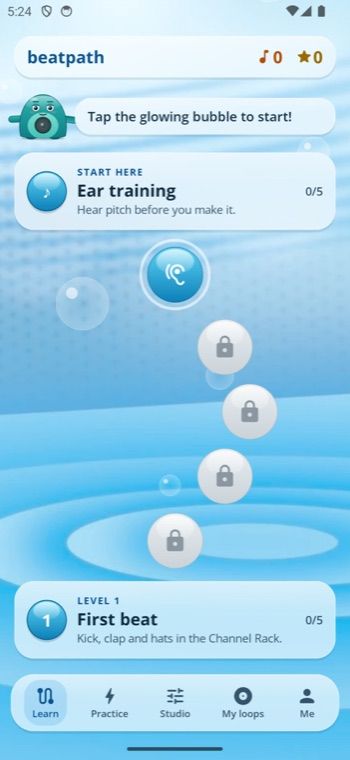
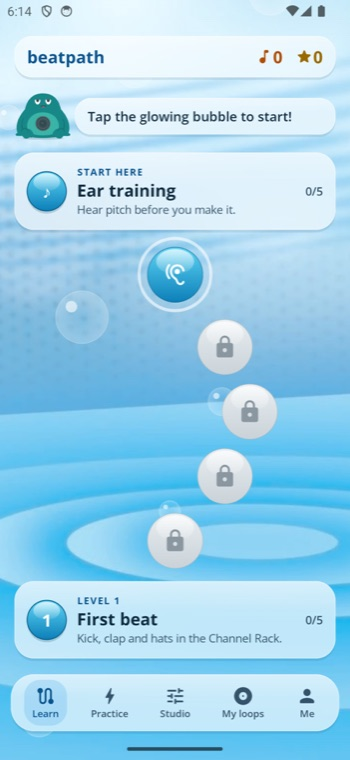
Lou 1.0.1: draw Lou from his exact SVG artwork and animate it
The app's Lou is now built from the 20 paths of docs/lou.svg (the same
artwork as the GitHub banner) instead of a code-drawn approximation.

- LouArt.kt holds the SVG paths, positions and colours verbatim
- Lou.kt animates the parts: breathing, cheer jump, beat bounce, tilt,
  blinking lids that open or sink with mood, pupils that look around,
  the smile widening or opening to talk, and the speaker pumping
- hands and feet sway gently: each is cut from the body outline on its
  own layer and redrawn slightly rotated, with an overlap so no gaps open
- Lou gallery fits all nine moods on a phone
- refreshed README screenshots, demo GIF and a moods preview

diff --git a/android/app/src/main/java/com/beatpath/app/ui/lou/Lou.kt b/android/app/src/main/java/com/beatpath/app/ui/lou/Lou.kt
@@ -22,6 +22,8 @@ import androidx.compose.ui.graphics.drawscope.DrawScope
 import androidx.compose.ui.graphics.drawscope.Stroke
 import androidx.compose.ui.graphics.drawscope.clipPath
 import androidx.compose.ui.graphics.drawscope.rotate
+import androidx.compose.ui.graphics.drawscope.translate
+import androidx.compose.ui.graphics.drawscope.scale
 import androidx.compose.ui.graphics.drawscope.withTransform
 import androidx.compose.ui.semantics.contentDescription
 import androidx.compose.ui.semantics.semantics
@@ -71,9 +73,9 @@ private class Pose {
 }
 
 /**
- * Lou, the guide: a big teal sub-bass creature with a woofer belly, drawn from layered parts so each
- * part moves on its own: breathing, eased blinks every 2–6 s, soft look-around, word-synced mouth,
- * a cheer jump with anticipation and landing squash, and a beat-locked bounce + woofer pump.
+ * Lou, the guide, drawn from his exact SVG artwork (docs/lou.svg, the GitHub banner's Lou). His parts move
+ * on their own: breathing, eased blinks every 2 to 6 s, look-arounds, mood lids and mouth, a talking
+ * mouth, a cheer jump with anticipation and landing squash, and a beat-locked bounce and speaker pump.
  */
 @Composable
 fun Lou(
@@ -138,23 +140,39 @@ fun Lou(
     }
 }
 
-private val BodyTop = Color(0xFF2BB3B0)
-private val BodyBottom = Color(0xFF0F7E86)
-private val BodyRim = Color(0xFF0A5F66)
-private val Belly = Color(0xFF7FE0D2)
-private val BellyDeep = Color(0xFF45C2B6)
-private val Ink = Color(0xFF0E2A2E)
+/** A hand or foot of the SVG body: the round region cut out of the body, the slightly bigger patch drawn back, and its joint. */
+private class Limb(val hand: Boolean, val side: Float, cx: Float, cy: Float, r: Float, px: Float, py: Float, margin: Float = 3.5f) {
+    val cut = Path().apply { addOval(Rect(Offset(cx, cy), r)) }
+    val patch = Path().apply { addOval(Rect(Offset(cx, cy), r + margin)) }
+    val pivot = Offset(px, py)
+}
+
+// positions measured on docs/lou.svg (SVG units): hands are the round lumps, feet the flat stubs at the sides
+private val Limbs = listOf(
+    Limb(hand = false, side = -1f, cx = 12f, cy = 128.5f, r = 8f, px = 23f, py = 127.5f, margin = 2.5f),
+    Limb(hand = false, side = 1f, cx = 158f, cy = 127.5f, r = 8f, px = 148f, py = 126.5f, margin = 2.5f),
+    Limb(hand = true, side = -1f, cx = 37f, cy = 126f, r = 16f, px = 37f, py = 111f),
+    Limb(hand = true, side = 1f, cx = 131f, cy = 126f, r = 16f, px = 131f, py = 111f),
+)
 
 /** Smooth 0→1→0 bump with eased edges (for jumps): ease-in-out sine. */
 private fun bump(p: Float) = sin(p.coerceIn(0f, 1f) * PI.toFloat())
+private fun smooth(e0: Float, e1: Float, x: Float): Float { val k = ((x - e0) / (e1 - e0)).coerceIn(0f, 1f); return k * k * (3 - 2 * k) }
 
+/**
+ * Draws Lou from his exact SVG artwork (LouArt) and animates the parts: the whole body breathes, jumps,
+ * bounces and tilts; the heavy lids blink and move with mood; the pupils look around inside the eye
+ * whites; the smile widens, flattens or opens into a talking mouth; the speaker pumps on the beat and
+ * the arm lines sway. At rest with mood Idle he matches the SVG exactly.
+ */
 private fun DrawScope.drawLou(pose: Pose, mood: LouMood, t: Float, since: Float, blink: Float, beatPhase: Float?, still: Boolean) {
-    val w = size.width; val h = size.height
-    val unit = min(w / 1.15f, h)
-    val cx = w / 2f
-    val floor = h * 0.97f
+    val A = LouArt
+    // fit the 171 × 144 artwork into the canvas, centred, standing on the bottom edge
+    val s = min(size.width / A.WIDTH, size.height / A.HEIGHT)
+    val ox = (size.width - A.WIDTH * s) / 2f
+    val oy = size.height - A.HEIGHT * s
 
-    // ---------------- body motion (all continuous curves) ----------------
+    // ---------------- body motion (same curves as before, in SVG units) ----------------
     var squash = 0f; var lift = 0f; var pump = 0f
     var tilt = pose.tilt
     if (!still) {
@@ -163,7 +181,7 @@ private fun DrawScope.drawLou(pose: Pose, mood: LouMood, t: Float, since: Float,
             LouMood.Cheer -> {
                 val c = since % 1.1f
                 when {
-                    c < 0.2f -> squash += 0.11f * bump(c / 0.4f)                                    // anticipation (eased)
+                    c < 0.2f -> squash += 0.11f * bump(c / 0.4f)                                    // anticipation
                     c < 0.72f -> { val p = (c - 0.2f) / 0.52f; lift = bump(p) * 0.22f; squash -= 0.07f * bump(p) }
                     c < 0.95f -> squash += 0.09f * bump((c - 0.72f) / 0.23f)                      // soft landing
                 }
@@ -176,121 +194,115 @@ private fun DrawScope.drawLou(pose: Pose, mood: LouMood, t: Float, since: Float,
         }
         if (beatPhase != null) {
             val k = (1f - beatPhase).coerceIn(0f, 1f)
-            pump = k * k * (3 - 2 * k)       // smoothstep instead of a hard decay
+            pump = k * k * (3 - 2 * k)
             squash += pump * 0.06f
             if (mood == LouMood.Dance) tilt += 3f * sin(t * PI.toFloat())
         }
     }
-    val bodyW = unit * 1.05f * (1f + squash * 0.7f)
-    val bodyH = unit * 0.86f * (1f - squash)
-    val baseY = floor - lift * unit
-    val left = cx - bodyW / 2f
-    val top = baseY - bodyH
+    val base = Offset(A.WIDTH / 2f, 136f)              // where his feet meet the ground
+    val liftU = lift * 120f
 
-    val shadowK = 1f - lift * 2.2f
-    drawOval(Color(0x33000000), Offset(cx - bodyW * 0.42f * shadowK, floor - unit * 0.035f), Size(bodyW * 0.84f * shadowK, unit * 0.07f))
+    withTransform({ translate(ox, oy); scale(s, s, Offset.Zero) }) {
+        // ground shadow shrinks while he's in the air
+        val shK = 1f - lift * 2.2f
+        drawOval(Color(0x2E0B3A40), Offset(base.x - 62f * shK, 136.5f), Size(124f * shK, 7f))
 
-    withTransform({ rotate(tilt, Offset(cx, baseY)) }) {
-        drawOval(BodyRim, Offset(cx - bodyW * 0.34f, baseY - unit * 0.07f), Size(bodyW * 0.22f, unit * 0.09f))
-        drawOval(BodyRim, Offset(cx + bodyW * 0.12f, baseY - unit * 0.07f), Size(bodyW * 0.22f, unit * 0.09f))
-
-        // arms: eased raise + gentle sway (never snaps)
-        val armY = top + bodyH * 0.55f
-        for (side in listOf(-1f, 1f)) {
-            val ax = cx + side * bodyW * 0.38f
-            val wave = if (!still && (mood == LouMood.Happy || mood == LouMood.Dance || mood == LouMood.Cheer)) 9f * sin(t * 6f + side) * pose.arm else 0f
-            val ang = -side * (28f + pose.arm * 125f + wave)
-            rotate(ang, Offset(ax, armY)) {
-                val len = unit * 0.3f; val wid = unit * 0.13f
-                drawRoundRect(Brush.horizontalGradient(listOf(BodyTop, BodyBottom), ax - wid / 2f, ax + wid / 2f), Offset(ax - wid / 2f, armY), Size(wid, len), CornerRadius(wid / 2f))
-                drawRoundRect(BodyRim, Offset(ax - wid / 2f, armY), Size(wid, len), CornerRadius(wid / 2f), style = Stroke(unit * 0.01f))
+        withTransform({
+            translate(0f, -liftU)
+            scale(1f + squash * 0.7f, 1f - squash, base)
+            rotate(tilt, base)
+        }) {
+            // Hands and feet are part of the body outline in the SVG. To sway them, the body goes on its own layer,
+            // each hand or foot is cut out of it and drawn back rotated a few degrees around its wrist or ankle.
+            // The redrawn piece is slightly bigger than the cut, so no gap ever opens inside the body.
+            val excited = mood == LouMood.Happy || mood == LouMood.Dance || mood == LouMood.Cheer
+            fun handAngle(side: Float) = if (still) 0f else
+                2.2f * sin(t * 1.6f + side * 1.3f) + (if (excited) 5f * sin(t * 6f + side) * pose.arm else 0f)
+            fun footAngle(side: Float) = if (still) 0f else
+                -side * (2.5f * (0.5f + 0.5f * sin(t * 1.25f + side * 2f)) + pump * 7f)
+            drawContext.canvas.saveLayer(Rect(-30f, -40f, A.WIDTH + 30f, A.HEIGHT + 20f), androidx.compose.ui.graphics.Paint())
+            drawPath(A.body.path, A.body.color)
+            for (limb in Limbs) {
+                val ang = if (limb.hand) handAngle(limb.side) else footAngle(limb.side)
+                if (kotlin.math.abs(ang) < 0.01f) continue
+                clipPath(limb.cut) { drawPath(A.body.path, Color.Black, blendMode = androidx.compose.ui.graphics.BlendMode.Clear) }
+                rotate(ang, limb.pivot) { clipPath(limb.patch) { drawPath(A.body.path, A.body.color) } }
             }
-        }
+            drawContext.canvas.restore()
+            drawPath(A.belly.path, A.belly.color)
 
-        val body = Path().apply {
-            moveTo(left + bodyW * 0.06f, baseY - bodyH * 0.06f)
-            cubicTo(left - bodyW * 0.02f, top + bodyH * 0.45f, left + bodyW * 0.18f, top, cx, top)
-            cubicTo(left + bodyW * 0.82f, top, left + bodyW * 1.02f, top + bodyH * 0.45f, left + bodyW * 0.94f, baseY - bodyH * 0.06f)
-            cubicTo(left + bodyW * 0.9f, baseY + bodyH * 0.01f, left + bodyW * 0.1f, baseY + bodyH * 0.01f, left + bodyW * 0.06f, baseY - bodyH * 0.06f)
-            close()
-        }
-        drawPath(body, Brush.verticalGradient(listOf(BodyTop, BodyBottom), top, baseY))
-        drawPath(body, BodyRim, style = Stroke(unit * 0.012f))
-        clipPath(body) {
-            val bellyC = Offset(cx, top + bodyH * 0.68f)
-            drawOval(Brush.verticalGradient(listOf(Belly, BellyDeep), bellyC.y - bodyH * 0.3f, bellyC.y + bodyH * 0.3f), Offset(bellyC.x - bodyW * 0.3f, bellyC.y - bodyH * 0.27f), Size(bodyW * 0.6f, bodyH * 0.6f))
-            drawOval(Brush.verticalGradient(listOf(Color(0x8CFFFFFF), Color(0x00FFFFFF)), top, top + bodyH * 0.35f), Offset(left + bodyW * 0.14f, top + bodyH * 0.03f), Size(bodyW * 0.72f, bodyH * 0.32f))
-            drawOval(Color(0x66FFFFFF), Offset(left + bodyW * 0.22f, top + bodyH * 0.07f), Size(bodyW * 0.18f, bodyH * 0.07f))
-        }
+            // arm lines and the little shadow under each hand move with that hand
+            for ((side, parts) in listOf(-1f to listOf(A.armL, A.shadeL), 1f to listOf(A.armR, A.shadeR))) {
+                val limb = Limbs.first { it.hand && it.side == side }
+                rotate(handAngle(side), limb.pivot) { parts.forEach { drawPath(it.path, it.color) } }
+            }
 
-        // woofer
-        val wc = Offset(cx, top + bodyH * 0.7f); val r = unit * 0.15f
-        drawCircle(Color(0xFF173D41), r * 1.12f, wc)
-        drawCircle(Brush.radialGradient(listOf(Color(0xFF5E7477), Color(0xFF223236)), wc, r), r * (1f + pump * 0.08f), wc)
-        for (i in 1..2) drawCircle(Color(0x33FFFFFF), r * (0.55f + i * 0.17f) * (1f + pump * 0.08f), wc, style = Stroke(unit * 0.006f))
-        drawCircle(Brush.radialGradient(listOf(Color(0xFF8FA3A6), Color(0xFF2C3E42)), wc - Offset(r * 0.1f, r * 0.1f), r * 0.4f), r * 0.36f * (1f + pump * 0.15f), wc)
-        drawCircle(Color(0x99FFFFFF), r * 0.1f, wc - Offset(r * 0.14f, r * 0.14f))
+            // speaker: the cone pumps on the beat (and a little while he talks)
+            val talkPump = if (still) 0f else pose.mouth * 0.5f * (0.5f + 0.5f * sin(t * 18f))
+            val sc = A.ring1.bounds.center
+            scale(1f + pump * 0.06f + talkPump * 0.03f, pivot = sc) { A.rings.forEach { drawPath(it.path, it.color) } }
 
-        // face
-        val eyeY = top + bodyH * 0.3f; val eyeDX = bodyW * 0.14f; val eyeR = unit * 0.075f
-        val lid = max(pose.lid, blink)
-        for (side in listOf(-1f, 1f)) {
-            val ec = Offset(cx + side * eyeDX, eyeY)
-            val er = eyeR * pose.eyeScale
-            // open eye, fading out as happy (closed-arc) eyes fade in
-            val openA = (1f - pose.happyEyes).coerceIn(0f, 1f)
-            if (openA > 0.01f) {
-                drawCircle(Color.White.copy(alpha = openA), er, ec)
-                val pupil = Offset(ec.x + pose.lookX * er * 0.35f, ec.y + pose.lookY * er * 0.3f + er * 0.12f)
-                drawCircle(Ink.copy(alpha = openA), er * 0.55f, pupil)
-                drawCircle(Color.White.copy(alpha = openA), er * 0.17f, pupil + Offset(-er * 0.18f, -er * 0.2f))
-                if (lid > 0.01f) {
-                    val lidH = er * 2f * lid
-                    clipPath(Path().apply { addOval(Rect(ec, er)) }) {
-                        drawRect(Brush.verticalGradient(listOf(BodyTop, Color(0xFF22A3A2)), ec.y - er, ec.y - er + lidH), Offset(ec.x - er, ec.y - er), Size(er * 2f, lidH))
+            // eyes, layered like the SVG: the dark dome (socket) first, then the white half-eye and pupil on top.
+            // Opening (happy, surprised) grows the white up into the dome; closing (sleepy, blink) covers it from the top.
+            for (side in listOf(-1f, 1f)) {
+                val white = if (side < 0) A.whiteL else A.whiteR
+                val pupil = if (side < 0) A.pupilL else A.pupilR
+                val lid = if (side < 0) A.lidL else A.lidR
+                val wb = white.bounds
+                val brow = if (side < 0) pose.browL else pose.browR
+                val l = (pose.lid - (brow - 0.08f) * 0.6f).coerceIn(0f, 1f)
+                val openK = if (l < 0.42f) (0.42f - l) / 0.42f else 0f
+                val closeK = max(if (l > 0.42f) (l - 0.42f) / 0.58f else 0f, blink)
+                scale(pose.eyeScale, pivot = wb.center) {
+                    rotate(side * pose.browTilt * 0.5f, lid.bounds.center) { drawPath(lid.path, lid.color) }
+                    // the white grows upward from its bottom edge, staying inside the dome
+                    val grow = 1f + openK * (lid.bounds.bottom - lid.bounds.top) / wb.height * 0.55f
+                    val eyeArea = Path().apply { op(white.path, lid.path, androidx.compose.ui.graphics.PathOperation.Union) }
+                    clipPath(eyeArea) {
+                        scale(1f, grow, Offset(wb.center.x, wb.bottom)) {
+                            drawPath(white.path, white.color)
+                            clipPath(white.path) {
+                                translate(pose.lookX * wb.width * 0.16f, pose.lookY * wb.height * 0.22f) { drawPath(pupil.path, pupil.color) }
+                                if (closeK > 0.001f) drawRect(lid.color, Offset(wb.left - 1f, wb.top - 1f), Size(wb.width + 2f, (wb.height + 2f) * closeK))
+                            }
+                        }
                     }
-                    drawLine(BodyRim.copy(alpha = openA), Offset(ec.x - er * 0.95f, ec.y - er + lidH), Offset(ec.x + er * 0.95f, ec.y - er + lidH), unit * 0.012f, StrokeCap.Round)
                 }
-                drawCircle(BodyRim.copy(alpha = openA), er, ec, style = Stroke(unit * 0.008f))
             }
-            if (pose.happyEyes > 0.01f) {
-                drawArc(Ink.copy(alpha = pose.happyEyes.coerceIn(0f, 1f)), 200f, 140f, false, Offset(ec.x - er, ec.y - er * 0.6f), Size(er * 2f, er * 1.4f), style = Stroke(unit * 0.018f, cap = StrokeCap.Round))
-            }
-            val by = ec.y - eyeR * (1.35f + if (side < 0) pose.browL else pose.browR)
-            rotate(side * pose.browTilt, Offset(ec.x, by)) { drawLine(BodyRim, Offset(ec.x - eyeR * 0.7f, by), Offset(ec.x + eyeR * 0.7f, by), unit * 0.02f, StrokeCap.Round) }
-        }
-        drawOval(Color(0x40FF8FA3), Offset(cx - eyeDX - eyeR * 1.6f, eyeY + eyeR * 0.9f), Size(eyeR * 1.3f, eyeR * 0.6f))
-        drawOval(Color(0x40FF8FA3), Offset(cx + eyeDX + eyeR * 0.3f, eyeY + eyeR * 0.9f), Size(eyeR * 1.3f, eyeR * 0.6f))
 
-        // mouth: one continuous shape — smile line blends into an open mouth as it opens
-        val my = eyeY + eyeR * 1.7f
-        val mw = unit * pose.mouthW
-        val open = (pose.mouth + pose.mouthExtra).coerceIn(0f, 1f)
-        val smileArc = 0.7f * pose.smile
-        if (pose.thinkMouth > 0.5f && open < 0.08f) {
-            drawLine(Ink, Offset(cx - mw * 0.1f, my + unit * 0.01f), Offset(cx + mw * 0.6f, my - unit * 0.005f), unit * 0.014f, StrokeCap.Round)
-        } else {
-            val mh = unit * 0.09f * open
-            val p = Path().apply {
-                moveTo(cx - mw / 2f, my)
-                quadraticTo(cx, my + mw * 0.35f * smileArc - mh * 0.25f, cx + mw / 2f, my)        // upper lip (a smile when closed)
-                quadraticTo(cx, my + mw * 0.35f * smileArc + mh * 1.6f, cx - mw / 2f, my)          // lower lip opens smoothly
-                close()
+            // mouth: his own smile, widened or flattened by mood; opens into a round mouth when he talks
+            val m = A.mouth; val mb = m.bounds; val mc = mb.center
+            val open = (pose.mouth + pose.mouthExtra).coerceIn(0f, 1f)
+            val openK = smooth(0.04f, 0.22f, open)
+            val sx = (0.75f + pose.mouthW * 2.5f) * (1f - 0.3f * pose.thinkMouth)
+            val sy = (pose.smile * (0.8f + pose.mouthW * 2f)) * (1f - 0.7f * pose.thinkMouth)
+            if (openK < 0.99f) translate(pose.thinkMouth * 3f, 0f) {
+                scale(sx, sy.coerceAtLeast(0.15f), mc) { drawPath(m.path, m.color.copy(alpha = 1f - openK)) }
             }
-            if (open > 0.03f) {
-                drawPath(p, Color(0xFF3A1420))
-                clipPath(p) { drawOval(Color(0xFFE86A7E), Offset(cx - mw * 0.3f, my + mh * 0.6f), Size(mw * 0.6f, mh + 1f)) }
+            if (openK > 0.01f) {
+                val mw = mb.width * sx * 0.78f
+                val top = mb.top + mb.height * 0.2f
+                val depth = 2.5f + open * 9f
+                val shape = Path().apply {
+                    moveTo(mc.x - mw / 2f, top)
+                    quadraticTo(mc.x, top - 1.2f, mc.x + mw / 2f, top)
+                    quadraticTo(mc.x + mw / 2f, top + depth * 1.15f, mc.x, top + depth)
+                    quadraticTo(mc.x - mw / 2f, top + depth * 1.15f, mc.x - mw / 2f, top)
+                    close()
+                }
+                drawPath(shape, m.color.copy(alpha = openK))
+                clipPath(shape) { drawOval(Color(0xFFE86A7E).copy(alpha = openK), Offset(mc.x - mw * 0.28f, top + depth * 0.55f), Size(mw * 0.56f, depth)) }
             }
-            drawPath(Path().apply { moveTo(cx - mw / 2f, my); quadraticTo(cx, my + mw * 0.35f * smileArc - mh * 0.25f, cx + mw / 2f, my) }, Ink, style = Stroke(unit * 0.014f, cap = StrokeCap.Round))
-        }
-        if (mood == LouMood.Sleepy && !still) {
-            val zp = (t % 2.4f) / 2.4f
-            drawZ(Offset(cx + bodyW * 0.38f + zp * unit * 0.1f, top - zp * unit * 0.2f), unit * 0.05f * (0.6f + zp), bump(zp))
+
+            if (mood == LouMood.Sleepy && !still) {
+                val zp = (t % 2.4f) / 2.4f
+                drawZ(Offset(140f + zp * 12f, 22f - zp * 24f), 7f * (0.6f + zp), bump(zp))
+            }
         }
     }
 }
 
 private fun DrawScope.drawZ(at: Offset, s: Float, alpha: Float) {
     val p = Path().apply { moveTo(at.x, at.y); lineTo(at.x + s, at.y); lineTo(at.x, at.y + s); lineTo(at.x + s, at.y + s) }
-    drawPath(p, Color(0xFF0F7E86).copy(alpha = alpha.coerceIn(0f, 1f)), style = Stroke(s * 0.22f, cap = StrokeCap.Round))
+    drawPath(p, LouArt.body.color.copy(alpha = alpha.coerceIn(0f, 1f)), style = Stroke(s * 0.22f, cap = StrokeCap.Round))
 }

diff --git a/android/app/src/main/java/com/beatpath/app/ui/lou/LouArt.kt b/android/app/src/main/java/com/beatpath/app/ui/lou/LouArt.kt
@@ -1,0 +1,46 @@
+package com.beatpath.app.ui.lou
+
+import androidx.compose.ui.geometry.Rect
+import androidx.compose.ui.graphics.Color
+import androidx.compose.ui.graphics.Path
+import androidx.compose.ui.graphics.vector.PathParser
+
+/**
+ * Lou's artwork, copied path for path from docs/lou.svg (the same drawing as the GitHub banner).
+ * Coordinates are SVG units in a 171 × 144 box; each part keeps its original translate and colour,
+ * so drawing every part in order reproduces the SVG exactly. Lou.kt animates the parts.
+ */
+internal object LouArt {
+    const val WIDTH = 171f
+    const val HEIGHT = 144f
+
+    class Part(pathData: String, private val dx: Float, private val dy: Float, val color: Color) {
+        /** The shape in SVG units, already moved to its place in the 171 × 144 box. */
+        val path: Path by lazy { PathParser().parsePathString(pathData).toPath().apply { translate(androidx.compose.ui.geometry.Offset(dx, dy)) } }
+        val bounds: Rect by lazy { path.getBounds() }
+    }
+
+    val body = Part("M5.285 119.07c-5.195-14.261-2.061-30.644 4.207-44.078 2.807-5.981 6.211-11.662 10.16-16.959 1.269-1.743 2.587-3.449 3.953-5.117 .792-.972 3.789-4.198 4.019-5.028 1.022-3.705 1.912-7.393 3.135-11.06 4.733-14.19 13.932-26.675 28.109-32.458 13.375-5.689 30.492-5.787 43.997-.508 12.901 5.043 21.865 15.245 27.223 27.82 1.364 3.221 2.507 6.533 3.421 9.911 .406 1.448 1.322 5.355 1.731 6.412 .271 .697 3.479 4.381 4.135 5.17 1.923 2.322 3.751 4.72 5.479 7.19 8.683 12.594 15.013 27.035 15.275 42.539 .088 5.219-.585 11.06-2.561 15.932-.035 .086-.07 .171-.107 .256 1.923 .914 4.305 2.026 5.076 4.18 .301 .844 .387 1.853-.012 2.68-.511 1.06-1.624 1.706-2.707 2.05-2.58 .822-14.426 .402-17.886 .3-6.546 10.176-13.979 9.836-23.234 2.979l-3.321 .631c-24.015 3.395-43.979 3.623-68.046-.018l-3.379-.567c-1.421 1.243-2.958 2.013-4.581 2.885-8.371 4.496-13.97 1.018-18.658-5.998-4.356 .582-9.873-.118-14.345 .157-2.332 .144-5.988-.333-6.338-3.277-.377-3.168 2.891-4.797 5.255-6.024z", 4f, 4f, Color(0xFF178888))
+    val shadeR = Part("M1.292 5.559c-.939-2.425-1.027-2.959-1.292-5.559 1.049 1.279 4.145 4.117 4.613 4.928l-3.321 .631z", 118.0852f, 130.3528f, Color(0xFF157575))
+    val shadeL = Part("M0 4.067c.618-.716 3.719-4.036 4.434-4.067 .434 .947-.622 3.465-1.006 4.501l-.05 .132z", 47.9523f, 131.2604f, Color(0xFF157575))
+    val belly = Part("M46.189 .003c25.607-.251 48.645 14.511 49.102 42.235 .037 2.305-.464 4.242-1.285 6.378-2.281 .562-4.997 1.198-7.034 2.364-6.097 3.491-9.065 8.091-11.024 14.579-6.407 2.777-19.36 3.65-26.307 3.943-9.934 .158-20.83-.868-30.318-3.888-.73-2.251-1.155-3.856-2.358-5.957-3.552-6.206-8.744-9.775-15.75-10.965-.699-1.847-1.096-3.794-1.178-5.768-.489-9.6 3.881-21.067 10.457-28.015 9.701-10.251 22.015-14.286 35.695-14.906z", 37.7511f, 61.0246f, Color(0xFF39B4A7))
+    val ring1 = Part("M22.414 0c12.338 .02 22.331 10.022 22.341 22.361 .011 12.339-9.966 22.358-22.305 22.398-12.379 .041-22.44-9.98-22.45-22.361-.01-12.381 10.033-22.418 22.414-22.398z", 63.029f, 72.5262f, Color(0xFF52656B))
+    val ring2 = Part("M17.155 .083c10.413-.97 19.636 6.698 20.582 17.114 .947 10.416-6.74 19.622-17.157 20.547-10.385 .922-19.557-6.738-20.501-17.122-.944-10.384 6.695-19.573 17.076-20.539z", 66.4846f, 75.9973f, Color(0xFF2D3F46))
+    val ring3 = Part("M14.459 .156c9.163-1.253 17.604 5.17 18.838 14.337 1.236 9.166-5.203 17.594-14.372 18.812-9.143 1.213-17.542-5.205-18.773-14.346-1.232-9.141 5.169-17.553 14.307-18.803z", 68.6725f, 78.1945f, Color(0xFF52656B))
+    val ring4 = Part("M12.358 .099c7.715-.917 14.704 4.62 15.576 12.341 .871 7.722-4.706 14.678-12.432 15.505-7.661 .82-14.547-4.702-15.412-12.359-.865-7.658 4.616-14.577 12.268-15.487z", 71.3923f, 80.9084f, Color(0xFF374F54))
+    val ring5 = Part("M6.497 .136c4.343-.81 8.516 2.077 9.29 6.429 .771 4.352-2.152 8.5-6.51 9.235-4.304 .725-8.39-2.155-9.153-6.453-.763-4.299 2.081-8.41 6.373-9.211z", 77.4395f, 86.9208f, Color(0xFF2D3F46))
+    val ring6 = Part("M5.011 .072c3.224-.504 6.249 1.696 6.762 4.919 .515 3.223-1.673 6.255-4.894 6.781-3.237 .528-6.287-1.674-6.804-4.913-.517-3.239 1.696-6.282 4.936-6.787z", 79.4825f, 88.9357f, Color(0xFF374F54))
+    val ring7 = Part("M2.922 0c.844 .075 1.077 .234 1.485 .915 .127 1.596-1.594 2.937-2.907 3.519-3.28-.812-.426-3.66 1.422-4.434z", 80.8191f, 90.2775f, Color(0xFF52656B))
+    val lidR = Part("M.007 9.469c-.133-3.338 1.572-6.481 4.441-8.189 2.87-1.708 6.445-1.707 9.314 .003 2.871 1.709 4.574 4.853 4.439 8.19-.197 4.882-4.214 8.738-9.099 8.737-4.886-.001-8.9-3.859-9.095-8.741z", 92.0728f, 19.6744f, Color(0xFF157575))
+    val whiteR = Part("M3.953 .123c1.34-.017 9.688-.378 10.226 .223 .019 .022 .031 .048 .047 .072l.069-.174c.534-.24 3.135-.143 3.898-.138-.196 4.882-4.213 8.738-9.098 8.737-4.887-.001-8.9-3.859-9.095-8.741 .809 0 3.275-.059 3.953 .021z", 92.0801f, 29.0414f, Color(0xFFFFFFFF))
+    val pupilR = Part("M0 .123c1.339-.017 9.687-.378 10.225 .223 .019 .022 .032 .048 .048 .072-.663 2.067-1.514 3.72-3.81 4.336-1.318 .363-2.728 .167-3.895-.544-1.652-1.011-2.132-2.353-2.568-4.087z", 96.0334f, 29.0414f, Color(0xFF374F54))
+    val lidL = Part("M.416 9.318c-.345-.361-.459-.443-.402-.992 .521-5.065 4.51-8.466 9.434-8.322 2.437 .083 4.742 1.129 6.409 2.908 1.118 1.188 2.898 4.664 2.249 6.21l-.356 .197 .346 .202c.4 1.793-1.347 4.821-2.627 6.051-1.78 1.706-4.171 2.625-6.636 2.553-2.455-.054-4.783-1.1-6.455-2.898-.85-.924-3.177-4.913-1.962-5.909z", 60.4797f, 19.7518f, Color(0xFF157575))
+    val whiteL = Part("M3.933 .392l.267-.236c.927-.22 9.091-.228 9.872 .114 .443-.257 2.846-.221 3.606-.256l.347 .202c.399 1.793-1.348 4.821-2.627 6.051-1.781 1.705-4.172 2.625-6.636 2.553-2.455-.054-4.784-1.1-6.456-2.899-.85-.924-3.176-4.912-1.962-5.908 .656 .035 3.201 .007 3.548 .242l.041 .137z", 60.5515f, 29.057f, Color(0xFFFFFFFF))
+    val pupilL = Part("M0 .392l.268-.236c.926-.22 9.091-.228 9.871 .114-1.233 6.438-8.878 5.934-10.139 .122z", 64.4842f, 29.057f, Color(0xFF374F54))
+    val armL = Part("M7.438 0c.216 .615-1.869 6.972-2.165 8.179-2.393 9.745-3.048 18.85 .185 28.533 7.752-4.676 15.457-.181 17.702 7.999 .5 1.824 .616 3.142 .763 5.045-1.771-4.124-3.304-6.894-6.868-9.635-5.658-3.936-11.837-2.487-13.997 4.454-.812 2.609-.78 4.91-.672 7.624-1.336-4.761-1.795-7.624 .172-12.214-4.639-12.973-2.943-28.553 4.88-39.985z", 20.0249f, 73.7313f, Color(0xFF157575))
+    val armR = Part("M15.968 0c1.288 1.018 3.426 5.573 4.161 7.273 4.498 10.408 5.345 22.629 1.249 33.271 1.802 4.058 1.641 7.35 .322 11.533-.002-.861-.012-1.712-.054-2.569-.426-8.657-6.249-14.127-14.511-8.981-3.674 2.56-5.215 5.595-7.135 9.539 .079-.76 .151-1.526 .271-2.28 1.531-9.575 8.917-15.532 18.274-10.531 .599-1.475 1.135-3.821 1.422-5.38 1.972-10.769-.373-21.729-3.999-31.875z", 126.7986f, 73.1856f, Color(0xFF157575))
+    val mouth = Part("M15.896 0c4.113 .764 .56 3.695-1.296 4.619-4.169 2.076-8.239 1.767-12.533 .446-1.181-.444-1.917-.854-2.067-2.226 .693-1.725 2.678-.672 3.863-.309 .992 .295 2.011 .494 3.042 .592 4.34 .422 5.892-.59 8.991-3.122z", 76.8804f, 39.6553f, Color(0xFF374F54))
+
+    /** The speaker cone's rings, outermost first (drawn in this order). */
+    val rings = listOf(ring1, ring2, ring3, ring4, ring5, ring6, ring7)
+}

diff --git a/android/app/src/main/java/com/beatpath/app/ui/lou/LouGallery.kt b/android/app/src/main/java/com/beatpath/app/ui/lou/LouGallery.kt
@@ -5,6 +5,8 @@ import androidx.compose.foundation.layout.Arrangement
 import androidx.compose.foundation.layout.Column
 import androidx.compose.foundation.layout.Row
 import androidx.compose.foundation.layout.fillMaxSize
+import androidx.compose.foundation.layout.fillMaxWidth
+import androidx.compose.foundation.layout.aspectRatio
 import androidx.compose.foundation.layout.padding
 import androidx.compose.foundation.layout.size
 import androidx.compose.material3.Text
@@ -21,8 +23,8 @@ fun LouGallery() {
         LouMood.entries.chunked(3).forEach { row ->
             Row(horizontalArrangement = Arrangement.spacedBy(8.dp)) {
                 row.forEach { m ->
-                    Column(horizontalAlignment = Alignment.CenterHorizontally) {
-                        Lou(Modifier.size(200.dp, 175.dp), mood = m, beatPhase = if (m == LouMood.Dance) 0.1f else null)
+                    Column(Modifier.weight(1f), horizontalAlignment = Alignment.CenterHorizontally) {
+                        Lou(Modifier.fillMaxWidth().aspectRatio(171f / 144f), mood = m, beatPhase = if (m == LouMood.Dance) 0.1f else null)
                         Text(m.name)
                     }
                 }

diff --git a/README.md b/README.md
@@ -4,7 +4,7 @@
 
 <br>
 
-<a href="../../releases/latest"><img alt="Download APK" src="https://img.shields.io/badge/⬇_Download-APK_v1.0.0-2f8f1c?style=for-the-badge&labelColor=0b7fb8"></a>
+<a href="../../releases/latest"><img alt="Download APK" src="https://img.shields.io/badge/⬇_Download-APK_v1.0.1-2f8f1c?style=for-the-badge&labelColor=0b7fb8"></a>
 
 <img alt="Android 8.1+" src="https://img.shields.io/badge/Android-8.1%2B-3ddc84?style=flat-square&logo=android&logoColor=white">
 <img alt="Kotlin" src="https://img.shields.io/badge/Kotlin-Jetpack_Compose-7f52ff?style=flat-square&logo=kotlin&logoColor=white">
@@ -37,6 +37,12 @@ Music words in Lou's speech bubble turn into chips such as *? chord* and *? octa
 </td>
 </tr>
 </table>
+
+Lou in the app is drawn from the same artwork as the banner ([docs/lou.svg](docs/lou.svg)). He has nine moods. He breathes, blinks, looks around and sways his hands and feet, and his speaker pumps on the beat.
+
+<div align="center">
+<img src="docs/lou-moods-preview.gif" alt="Lou's nine moods: idle, listen, happy, cheer, think, surprised, encourage, sleepy, dance" width="520">
+</div>
 
 ## Screenshots
 

diff --git a/android/README.md b/android/README.md
@@ -1,10 +1,11 @@
-# Beatpath 1.0.0 for Android
+# Beatpath 1.0.1 for Android
 
 Beatpath teaches music theory and melody writing step by step, with an FL Studio-style Studio to practice in. It's written in Kotlin with Jetpack Compose.
 The design file is `../fl duolingo.pen` and the research notes are in `../research/`.
 
 ## Lou
-- Lou is drawn in code, and his poses blend from one mood to the next.
+- Lou is drawn from the exact paths of `../docs/lou.svg` (`ui/lou/LouArt.kt`), the same artwork as the GitHub banner, and `ui/lou/Lou.kt` animates the parts. His poses blend from one mood to the next.
+- He breathes, blinks, looks around, and sways his hands and feet. The hands and feet are cut out of the body outline on a separate layer and redrawn a few degrees rotated, so nothing opens up in the body.
 - He doesn't talk out loud. What he says appears in his speech bubble, and he reacts with short chirps (happy, "hmm", surprised, yawn).
 - To see every mood, open the dev gallery: `adb shell am start -n com.beatpath.app/.MainActivity --ez lou_gallery true`.
 
